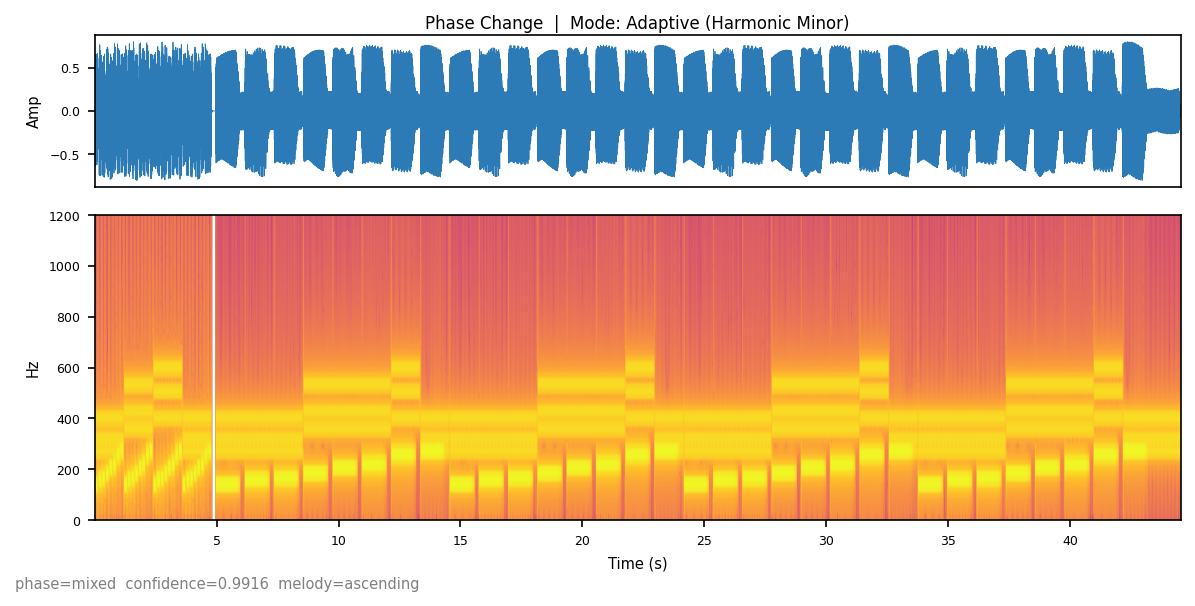
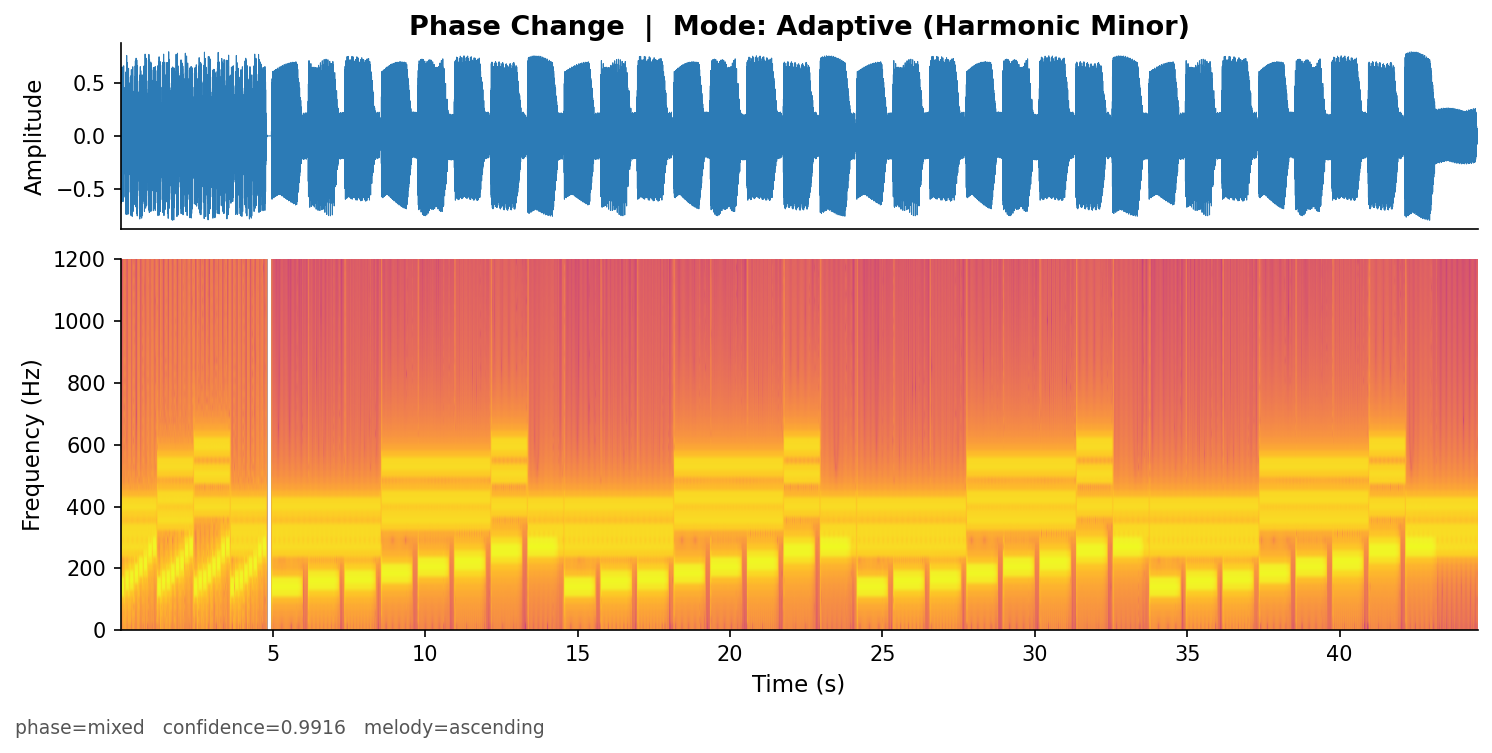
Improve sonification plot font sizes and layout for thesis readability

Changed region(s): [[0.0, 0.0, 0.9908, 0.8911], [0.0, 0.9505, 0.3715, 0.9802], [0.4954, 0.8911, 0.5883, 0.9505]]

diff --git a/Experiments/generate_sonification_plots.py b/Experiments/generate_sonification_plots.py
@@ -226,37 +226,42 @@ def save_wav(audio, path):
 # Plotting
 # --------------------------------------------------
 
-def _plot_one(ax_wave, ax_spec, audio, title):
+def _plot_one(ax_wave, ax_spec, audio, title,
+              title_fs=11, label_fs=10, tick_fs=9):
     t = np.linspace(0, len(audio) / SAMPLE_RATE, len(audio))
 
-    ax_wave.plot(t, audio, linewidth=0.4, color="#2c7bb6")
-    ax_wave.set_ylabel("Amp", fontsize=7)
-    ax_wave.set_title(title, fontsize=8, pad=3)
+    ax_wave.plot(t, audio, linewidth=0.5, color="#2c7bb6")
+    ax_wave.set_ylabel("Amplitude", fontsize=label_fs)
+    ax_wave.set_title(title, fontsize=title_fs, pad=4, fontweight="bold")
     ax_wave.set_xlim(0, t[-1])
-    ax_wave.tick_params(labelsize=6)
+    ax_wave.tick_params(labelsize=tick_fs)
     ax_wave.set_xticks([])
+    ax_wave.spines["top"].set_visible(False)
+    ax_wave.spines["right"].set_visible(False)
 
     ax_spec.specgram(audio, Fs=SAMPLE_RATE, cmap="plasma",
                      NFFT=2048, noverlap=1024, scale="dB")
     ax_spec.set_ylim(0, 1200)
-    ax_spec.set_ylabel("Hz", fontsize=7)
-    ax_spec.set_xlabel("Time (s)", fontsize=7)
-    ax_spec.tick_params(labelsize=6)
+    ax_spec.set_ylabel("Frequency (Hz)", fontsize=label_fs)
+    ax_spec.set_xlabel("Time (s)", fontsize=label_fs)
+    ax_spec.tick_params(labelsize=tick_fs)
+    ax_spec.spines["top"].set_visible(False)
+    ax_spec.spines["right"].set_visible(False)
 
 
 def plot_individual(audio, mode, workload, path):
-    fig, (ax1, ax2) = plt.subplots(2, 1, figsize=(8, 4),
+    fig, (ax1, ax2) = plt.subplots(2, 1, figsize=(10, 5),
                                     gridspec_kw={"height_ratios": [1, 2]})
     title = f"{SHORT[workload]}  |  Mode: {MODE_LABELS[mode]}"
-    _plot_one(ax1, ax2, audio, title)
+    _plot_one(ax1, ax2, audio, title, title_fs=13, label_fs=11, tick_fs=10)
 
     conf  = WORKLOAD_PARAMS[workload]["confidence"]
     phase = WORKLOAD_PARAMS[workload]["phase"]
     direction = "ascending" if conf >= 0.5 else "descending"
     fig.text(0.01, 0.01,
-             f"phase={phase}  confidence={conf:.4f}  melody={direction}",
-             fontsize=7, color="gray")
-    plt.tight_layout()
+             f"phase={phase}   confidence={conf:.4f}   melody={direction}",
+             fontsize=9, color="#555555")
+    plt.tight_layout(rect=[0, 0.03, 1, 1])
     os.makedirs(os.path.dirname(path), exist_ok=True)
     plt.savefig(path, dpi=150, bbox_inches="tight")
     plt.close()
@@ -267,34 +272,45 @@ def plot_grid(all_audio):
     n_rows = len(WORKLOADS)
     n_cols = len(MODES)
 
-    fig = plt.figure(figsize=(18, 4 * n_rows))
+    fig = plt.figure(figsize=(26, 7 * n_rows))
     fig.suptitle(
         "JazzyFS Sonification — Waveform & Spectrogram\n"
         "Rows: workloads   |   Columns: prefetch modes",
-        fontsize=13, y=1.005
+        fontsize=18, fontweight="bold", y=1.002
     )
 
-    outer = fig.add_gridspec(n_rows, n_cols, hspace=0.55, wspace=0.3)
+    outer = fig.add_gridspec(n_rows, n_cols, hspace=0.65, wspace=0.35)
 
     for row, workload in enumerate(WORKLOADS):
         for col, mode in enumerate(MODES):
             audio = all_audio[(mode, workload)]
             inner = outer[row, col].subgridspec(2, 1,
                                                  height_ratios=[1, 2],
-                                                 hspace=0.15)
+                                                 hspace=0.18)
             ax_w = fig.add_subplot(inner[0])
             ax_s = fig.add_subplot(inner[1])
 
-            title = f"{SHORT[workload]} / {mode}"
-            _plot_one(ax_w, ax_s, audio, title)
+            conf      = WORKLOAD_PARAMS[workload]["confidence"]
+            direction = "↑" if conf >= 0.5 else "↓"
+            title     = f"{SHORT[workload]} / {mode}  {direction} conf={conf:.2f}"
+            _plot_one(ax_w, ax_s, audio, title,
+                      title_fs=11, label_fs=9, tick_fs=8)
 
+            # Row label on left edge
             if col == 0:
-                ax_w.set_ylabel(f"{SHORT[workload]}\nAmp", fontsize=7)
+                ax_w.set_ylabel(f"Amplitude", fontsize=9)
+                ax_w.annotate(SHORT[workload], xy=(-0.18, 0.5),
+                              xycoords="axes fraction", fontsize=11,
+                              fontweight="bold", ha="center", va="center",
+                              rotation=90)
 
+    # Column headers
     for col, mode in enumerate(MODES):
-        ax = fig.axes[col * 2]
-        ax.set_title(f"{MODE_LABELS[mode]}\n{ax.get_title()}",
-                     fontsize=8, pad=3)
+        first_ax = fig.axes[col * 4]  # 2 axes per cell × col offset
+        first_ax.set_title(
+            f"— {MODE_LABELS[mode]} —\n{first_ax.get_title()}",
+            fontsize=12, fontweight="bold", pad=5
+        )
 
     path = os.path.join(OUT_DIR, "sonification_grid.png")
     plt.savefig(path, dpi=150, bbox_inches="tight")
